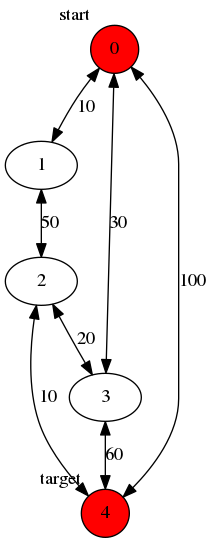
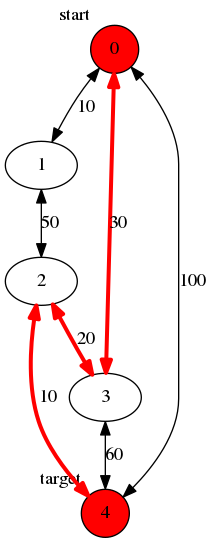
Image output bug corrected

Changed region(s): [[0.2264, 0.1179, 0.566, 0.7072], [0.1132, 0.5599, 0.4245, 0.9134]]

diff --git a/src/graph_drawer.c b/src/graph_drawer.c
@@ -5,23 +5,11 @@
 #include <stdlib.h>
 #include <string.h>
 #include <stdio.h>
-#include "../include/IO_dijkstra.h"
+#include "../include/graph_drawer.h"
 
 #define GRAPH_COMMAND_MAX 8096
 
-int contained_in_solution(int i, int j, struct Dijkstra_output *output, struct Dijkstra_input *input) {
-    int contained_i = 0;
-    int contained_j = 0;
-    for (int k = 0; k < output->size; k++)
-        if (output->path[k] == i)
-            contained_i = 1;
-        else if (output->path[k] == j)
-            contained_j = 1;
-
-    return contained_i * contained_j;
-}
-
-int sucessors_in_solution(int i, int j, struct Dijkstra_output *output, struct Dijkstra_input *input) {
+int sucessors_in_solution(int i, int j, struct Dijkstra_output *output) {
     int i_follows_j = 0;
     int j_follows_i = 0;
     for (int k = 0; k < output->size - 1; k++)
@@ -29,6 +17,7 @@ int sucessors_in_solution(int i, int j, struct Dijkstra_output *output, struct D
             j_follows_i = 1;
         else if (output->path[k] == j && output->path[k + 1] == i)
             i_follows_j = 1;
+
     return i_follows_j + j_follows_i;
 }
 
@@ -54,8 +43,7 @@ void draw_solution_to_image(struct Dijkstra_input *input, struct Dijkstra_output
                     strcat(graph_command, "->");
                     sprintf(str, "%d", j);
                     strcat(graph_command, str);
-                    if (contained_in_solution(i, j, &output, &input) &&
-                        sucessors_in_solution(i, j, &output, &input))
+                    if (sucessors_in_solution(i, j, output))
                         strcat(graph_command, " [color=red,penwidth=3.0,dir=both,label=\"");
                     else
                         strcat(graph_command, " [dir=both,label=\"");
@@ -68,8 +56,7 @@ void draw_solution_to_image(struct Dijkstra_input *input, struct Dijkstra_output
                     strcat(graph_command, "->");
                     sprintf(str, "%d", j);
                     strcat(graph_command, str);
-                    if (contained_in_solution(i, j, &output, &input) &&
-                        sucessors_in_solution(i, j, &output, &input))
+                    if (sucessors_in_solution(i, j, output))
                         strcat(graph_command, " [color=red,penwidth=3.0,dir=both,label=\"");
                     else
                         strcat(graph_command, " [dir=both,label=\"");

diff --git a/src/main.c b/src/main.c
@@ -92,8 +92,3 @@ int are_valid_nodes(int node_a, int node_b, int max) {
         valid == 0;
     return valid;
 }
-
-
-// TODO: graphic_output_to_[window][plotting graph][image]
-// --> TODO First: generate .dot file
-// --> TODO Second: use library to get image from .dot file

diff --git a/include/graph_drawer.h b/include/graph_drawer.h
@@ -4,5 +4,6 @@
 
 #ifndef DIJKSTRA_GRAPH_DRAWER_H
 #define DIJKSTRA_GRAPH_DRAWER_H
+#include "dijkstra.h"
 void draw_solution_to_image(struct Dijkstra_input *input, struct Dijkstra_output *output, char *filename_out);
 #endif //DIJKSTRA_GRAPH_DRAWER_H
